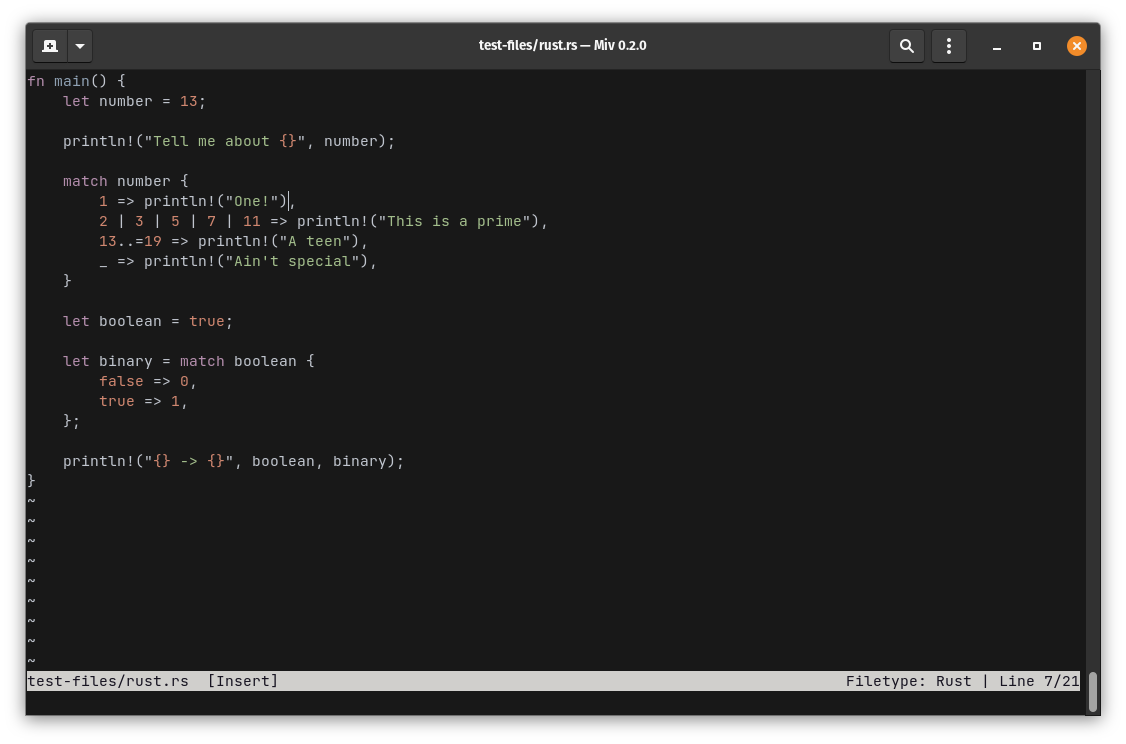
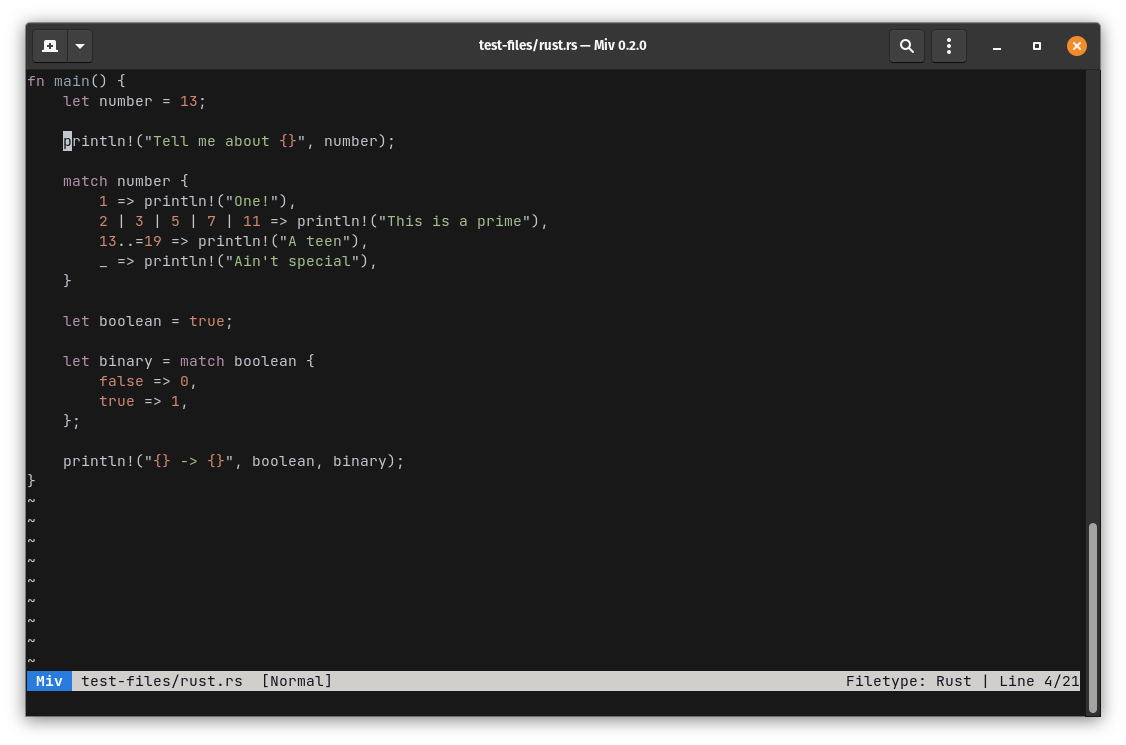
refactor: extract a mode module and tidy the status bar

diff --git a/src/mode.rs b/src/mode.rs
@@ -1,0 +1,38 @@
+use std::fmt::Display;
+
+use crossterm::style::Color;
+
+#[derive(Default)]
+pub enum Mode {
+    #[default]
+    Normal,
+    Insert,
+    Visual,
+    Command,
+    Search,
+}
+
+impl Display for Mode {
+    fn fmt(&self, f: &mut std::fmt::Formatter<'_>) -> std::fmt::Result {
+        let mode = match self {
+            Mode::Normal => "Normal",
+            Mode::Insert => "Insert",
+            Mode::Visual => "Visual",
+            Mode::Command => "Command",
+            Mode::Search => "Search",
+        };
+        write!(f, "{}", mode)
+    }
+}
+
+impl Mode {
+    pub fn to_color(&self) -> Color {
+        match self {
+            Mode::Normal => Color::Blue,
+            Mode::Insert => Color::Red,
+            Mode::Visual => Color::Blue,
+            Mode::Command => Color::Yellow,
+            Mode::Search => Color::Green,
+        }
+    }
+}

diff --git a/src/main.rs b/src/main.rs
@@ -2,6 +2,7 @@ mod document;
 mod editor;
 mod filetype;
 mod highlighting;
+mod mode;
 mod row;
 mod settings;
 mod terminal;
@@ -11,6 +12,7 @@ pub use editor::Editor;
 pub use editor::{Position, SearchDirection};
 pub use filetype::FileType;
 pub use highlighting::Highlighting;
+pub use mode::Mode;
 pub use row::Row;
 pub use settings::Settings;
 pub use terminal::Terminal;
